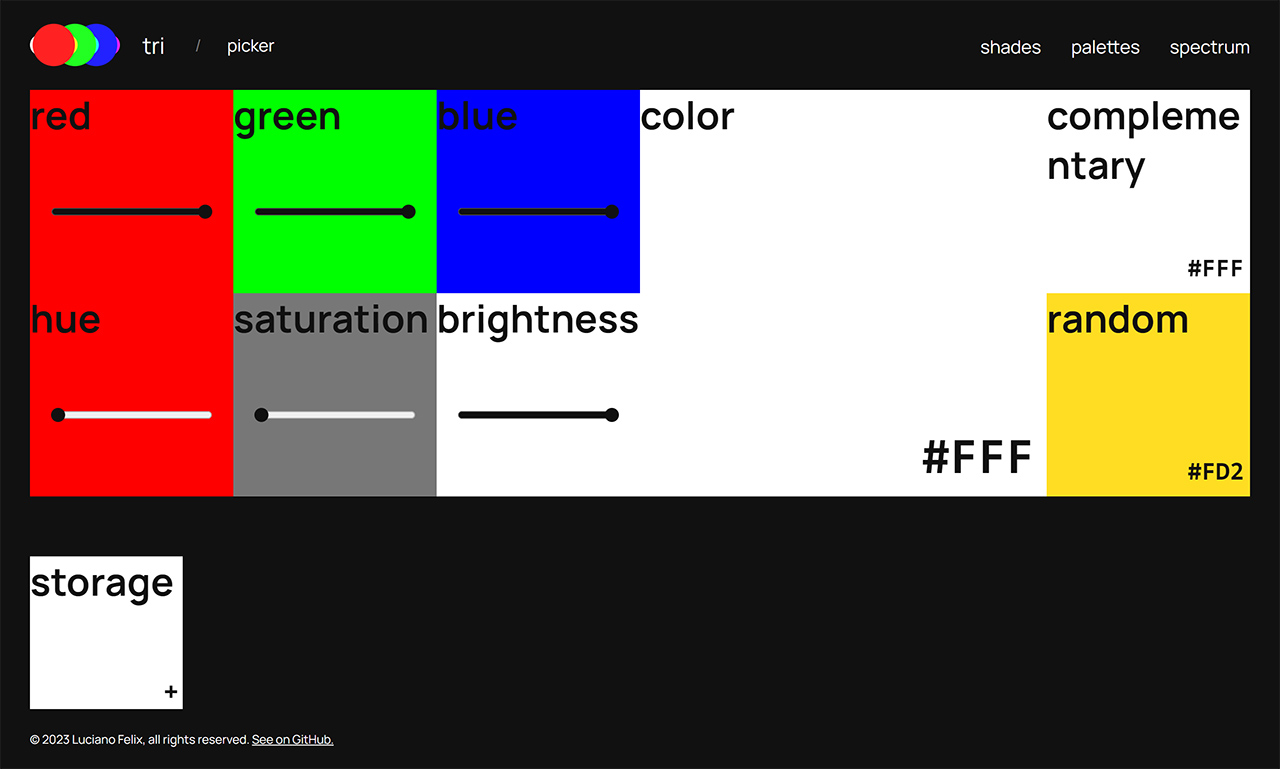
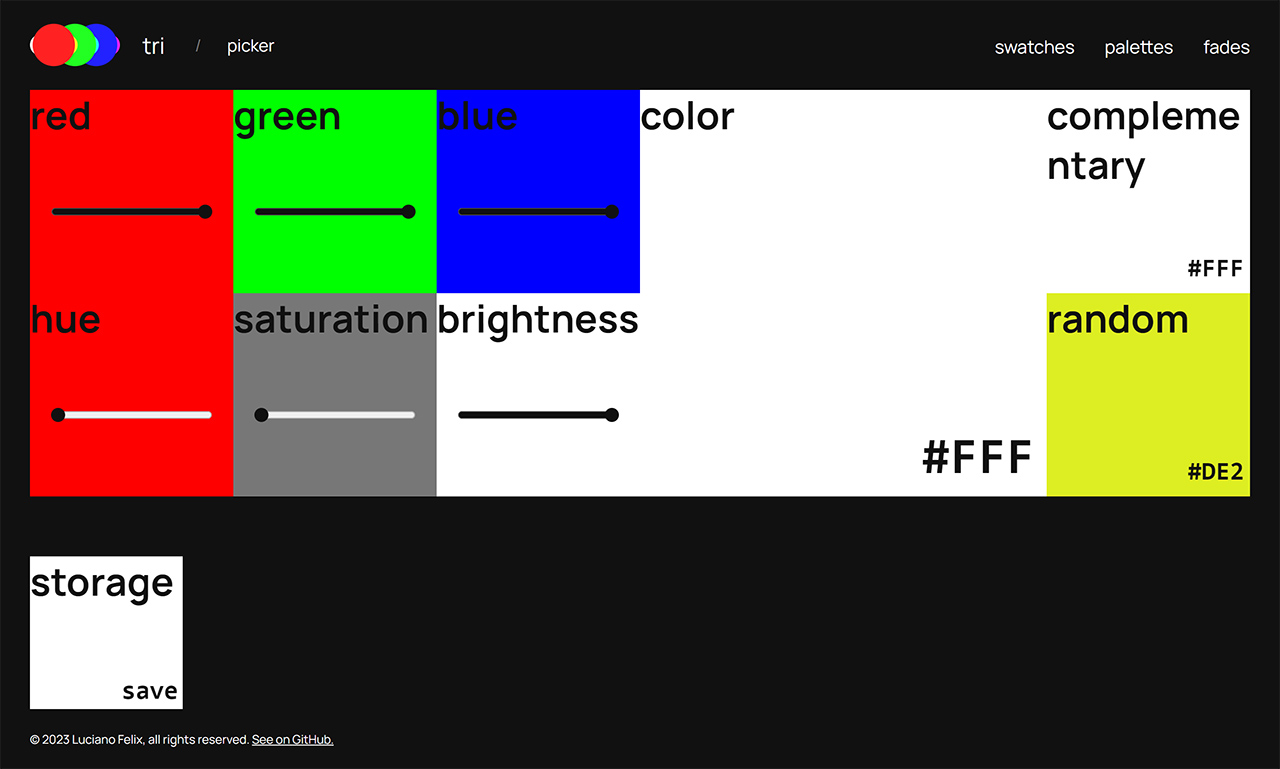
fix: color collection titles

Changed region(s): [[0.8125, 0.3745, 1.0, 0.6554], [0.7812, 0.0312, 0.9688, 0.0936], [0.0938, 0.8739, 0.1562, 0.9051]]

diff --git a/src/fades/index.html b/src/fades/index.html
@@ -3,7 +3,7 @@
 
 <head>
 	<meta charset="UTF-8">
-	<title>tri - picker</title>
+	<title>tri - fades</title>
 	<meta name="Description" content="Three characters hexadecimal color system">
 	<meta name="viewport" content="width=device-width, initial-scale=1">
 	<link async rel="shortcut icon" href="../favicon.svg">
@@ -30,7 +30,7 @@
 		</a>
 
 		<h1>
-			spectrum
+			fades
 		</h1>
 
 		<nav>
@@ -39,7 +39,7 @@
 					<a href="/tri/" title="Open picker">picker</a>
 				</li>
 				<li>
-					<a href="/tri/shades" title="Open shades">shades</a>
+					<a href="/tri/swatches" title="Open swatches">swatches</a>
 				</li>
 				<li>
 					<a href="/tri/palette" title="Open palette">palette</a>

diff --git a/src/swatches/index.html b/src/swatches/index.html
@@ -3,7 +3,7 @@
 
 <head>
 	<meta charset="UTF-8">
-	<title>tri - shades</title>
+	<title>tri - swatches</title>
 	<meta name="Description" content="Three characters hexadecimal color system">
 	<meta name="viewport" content="width=device-width, initial-scale=1">
 	<link async rel="shortcut icon" href="../favicon.svg">
@@ -30,7 +30,7 @@
 		</a>
 
 		<h1>
-			shades
+			swatches
 		</h1>
 
 		<nav>
@@ -42,7 +42,7 @@
 					<a href="/tri/palettes" title="Open palettes">palettes</a>
 				</li>
 				<li>
-					<a href="/tri/spectrum" title="Open spectrum">spectrum</a>
+					<a href="/tri/fades" title="Open fades">fades</a>
 				</li>
 			</ul>
 		</nav>

diff --git a/src/palettes/index.html b/src/palettes/index.html
@@ -30,7 +30,7 @@
 		</a>
 
 		<h1>
-			palette
+			palettes
 		</h1>
 
 		<nav>
@@ -39,10 +39,10 @@
 					<a href="/tri/" title="Open picker">picker</a>
 				</li>
 				<li>
-					<a href="/tri/shades" title="Open shades">shades</a>
+					<a href="/tri/swatches" title="Open swatches">swatches</a>
 				</li>
 				<li>
-					<a href="/tri/spectrum" title="Open spectrum">spectrum</a>
+					<a href="/tri/fades" title="Open fades">fades</a>
 				</li>
 			</ul>
 		</nav>

diff --git a/src/index.html b/src/index.html
@@ -38,13 +38,13 @@
 		<nav>
 			<ul>
 				<li>
-					<a href="/tri/shades" title="Open shades">shades</a>
+					<a href="/tri/swatches" title="Open swatches">swatches</a>
 				</li>
 				<li>
 					<a href="/tri/palettes" title="Open palettes">palettes</a>
 				</li>
 				<li>
-					<a href="/tri/spectrum" title="Open spectrum">spectrum</a>
+					<a href="/tri/fades" title="Open fades">fades</a>
 				</li>
 			</ul>
 		</nav>
